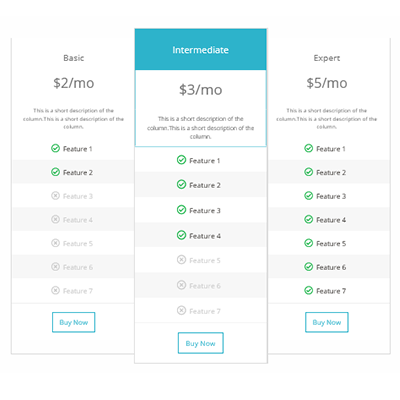
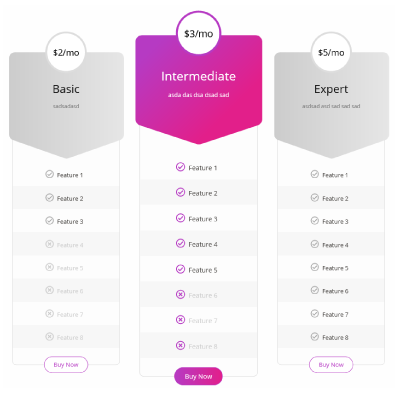
finalized theme.

diff --git a/templates/aanya/default.css b/templates/aanya/default.css
@@ -1,6 +1,7 @@
 .yapt_pricing_table {
     display: flex;
     justify-content: center;
+    margin: 85px 0 0;
 }
 
 .yapt_table_col-title {
@@ -31,60 +32,64 @@
 * Contenedor
 ============================*/
 
+
 .yapt_table_col {
-    border: 1px solid #ddd;
     text-align: center;
-    width: 300px;
+    width: 280px;
     -webkit-transition: all 0.25s ease;
     -o-transition: all 0.25s ease;
     transition: all 0.25s ease;
+    margin: 0 20px;
 }
 
 .yapt_table_col.highlighted {
-    -webkit-transform: scale(1.06);
-    -ms-transform: scale(1.06);
-    -o-transform: scale(1.06);
-    transform: scale(1.06);
+    -webkit-transform: scale(1.1);
+    -ms-transform: scale(1.1);
+    -o-transform: scale(1.1);
+    transform: scale(1.1);
 }
-
+.aanya_heading{
+    background: url('aanya-head.svg') no-repeat;
+    background-size: 100% auto;
+    height: 265px;
+    position: relative;
+    z-index: 2;
+}
+.highlighted .aanya_heading{
+    background: url('aanya-head-highlight.svg') no-repeat;
+    background-size: 100% auto;
+    height: 258px;
+}
+/* ========================
+* Title
+============================*/
 .col_title {
-    color: #777;
-    background: #fff;
-    padding: 30px 0 0;
-    font-size: 1.3em;
+    color: #111;
+    font-size: 1.7em;
     text-transform: capitalize;
 }
-
+.highlighted .col_title{
+    color: #fff;
+}
 .col_subtitle {
     color: #777;
-    background: #fff;
     padding: 12px 20px;
     font-size: 0.8em;
-    border-bottom: 1px solid #eee;
 }
-
-.yapt_table_col.highlighted .col_title {
-    background: #2db3cb;
+.highlighted .col_subtitle{
     color: #fff;
-    padding-bottom: 30px;
 }
 
-.yapt_table_col.highlighted .col_price,
-.yapt_table_col.highlighted .col_subtitle {
-    border-left: 2px solid #2db3cb;
-    border-right: 2px solid #2db3cb;
-}
-
-.yapt_table_col.highlighted .col_subtitle {
-    border-bottom: 2px solid #2db3cb;
-}
+/* ========================
+* Price
+============================*/
 
 .yapt_table_col .col_price {
-    background: #fff;
-    color: #777;
-    font-size: 2em;
+    color: #000;
+    font-size: 1.3em;
     font-weight: normal;
-    padding: 20px 0;
+    padding: 0;
+    height: 70px;
 }
 
 .yapt_table_col .col_price sup {
@@ -92,17 +97,42 @@
     position: relative;
     left: 5px;
 }
+.aanya_price{
+    width: 100px;
+    height: 100px;
+    background: #fff;
+    border-radius: 50%;
+    margin: 0 auto;
+    line-height: 90px;
+    border: 5px solid #ddd;
+    position: relative;
+    top: -47px;
+}
+.highlighted .aanya_price{
+    top: -52px;
+    border-color: #b63ac3;
+}
+
+/* ========================
+* Features
+============================*/
 
 .col_features ul {
-    background: #FFF;
+    background: #fdfdfd;
     color: #403d3a;
     margin: 0;
-    padding: 0;
+    padding: 70px 0 40px 0;
     list-style: none;
+    border: 1px solid #ddd;
+    margin: 0 10px;
+    border-radius: 10px;
+    position: relative;
+    z-index: 1;
+    margin-top: -67px;
 }
 
 .table-list li {
-    font-size: 1em;
+    font-size: 0.9em;
     padding: 12px 8px;
     text-transform: capitalize;
 }
@@ -117,11 +147,12 @@
 
 .table-list li.checked:before {
     content: "\f058";
-    color: #2db3cb;
+    color: #aaa;
 }
 
 .highlighted .table-list li.checked:before {
-    font-weight: bold;
+ 
+    color: #b63ac3;
 }
 
 .table-list li.unchecked:before {
@@ -130,7 +161,8 @@
 }
 
 .highlighted .table-list li.unchecked:before {
-    font-weight: bold;
+
+    color: #b63ac3;
 }
 
 .table-list li.unchecked {
@@ -143,7 +175,7 @@
 
 .table-list li span.unlimited {
     color: #FFF;
-    background: #2db3cb;
+    background: #b63ac3;
     font-size: 0.9em;
     padding: 5px 7px;
     display: inline-block;
@@ -158,51 +190,45 @@
 }
 
 .col_cta {
-    background: #FFF;
-    border-top: 1px solid #F0F0F0;
-    padding: 20px;
     text-align: center;
     overflow: hidden;
-}
-
-.col_cta p {
-    float: left;
-    color: #37353a;
-    font-weight: 700;
-    font-size: 2.4em;
-}
-
-.col_cta p sup {
-    font-size: 0.5em;
     position: relative;
-    left: 5px;
+    z-index: 99;
+    text-align: center;
+    overflow: hidden;
+    top: -21px;
 }
 
 .col_cta .btn_cta {
     display: inline-block;
-    color: #2db3cb;
-    border: 1px solid #2db3cb;
-    padding: 10px 16px;
-    font-size: 1em;
+    background: #fff;
+    color: #b63ac3;
+    border: 1px solid #b63ac3;
+    padding: 8px 22px;
+    font-size: 0.9em;
     -webkit-transition: all 0.25s ease;
     -o-transition: all 0.25s ease;
     transition: all 0.25s ease;
     text-decoration: none;
     text-transform: capitalize;
+    border-radius: 30px;
 }
 
 .col_cta .btn_cta:hover {
-    background: #2db3cb;
+    background: rgb(182,58,195);
+    background: linear-gradient(90deg, rgba(182,58,195,1) 0%, rgba(226,31,138,1) 100%);
     color: #fff;
 }
 
 .highlighted .col_cta .btn_cta {
-    background: #2db3cb;
+    background: rgb(182,58,195);
+    background: linear-gradient(90deg, rgba(182,58,195,1) 0%, rgba(226,31,138,1) 100%);
     color: #fff;
 }
 
 .highlighted .col_cta .btn_cta:hover {
-    background: #228799;
+    background: rgb(152,42,168);
+    background: linear-gradient(90deg, rgba(152,42,168,1) 0%, rgba(196,16,123,1) 100%);
 }
 
 /** ================
@@ -213,15 +239,18 @@
     .yapt_pricing_table {
         width: 768px;
     }
-
     .yapt_table_col {
         width: 236px;
     }
-
     .table-list li {
         font-size: 1.3em;
     }
-
+    .aanya_heading{
+        height: 210px;
+    }
+    .highlighted .aanya_heading{
+        height: 210px;
+    }
 }
 
 @media only screen and (max-width: 767px) {
@@ -232,8 +261,14 @@
     .yapt_table_col {
         display: block;
         float: none;
-        margin: 40px 0 40px 0;
-        width: 100%;
+        margin: 40px auto;
+        width: 350px;
+    }
+    .aanya_heading{
+        height: 327px;
+    }
+    .highlighted .aanya_heading{
+        height: 310px;
     }
 }
 

diff --git a/templates/aanya/default.html b/templates/aanya/default.html
@@ -1,12 +1,17 @@
 <div class="yapt_table_col ##is_highlighted##">
-    <div class="yapt_table_row col_title">
-        ##col_title##
-    </div>
-    <div class="yapt_table_row col_price">
-        ##col_price##
-    </div>
-    <div class="yapt_table_row col_subtitle">
-        ##description##
+    <div class="aanya_heading">
+        <div class="yapt_table_row col_price">
+            <div class="aanya_price">
+                ##col_price##
+            </div>
+            
+        </div>
+        <div class="yapt_table_row col_title">
+            ##col_title##
+        </div>
+        <div class="yapt_table_row col_subtitle">
+            ##description##
+        </div>
     </div>
     <div class="yapt_table_row col_features">
         <ul class="table-list">
